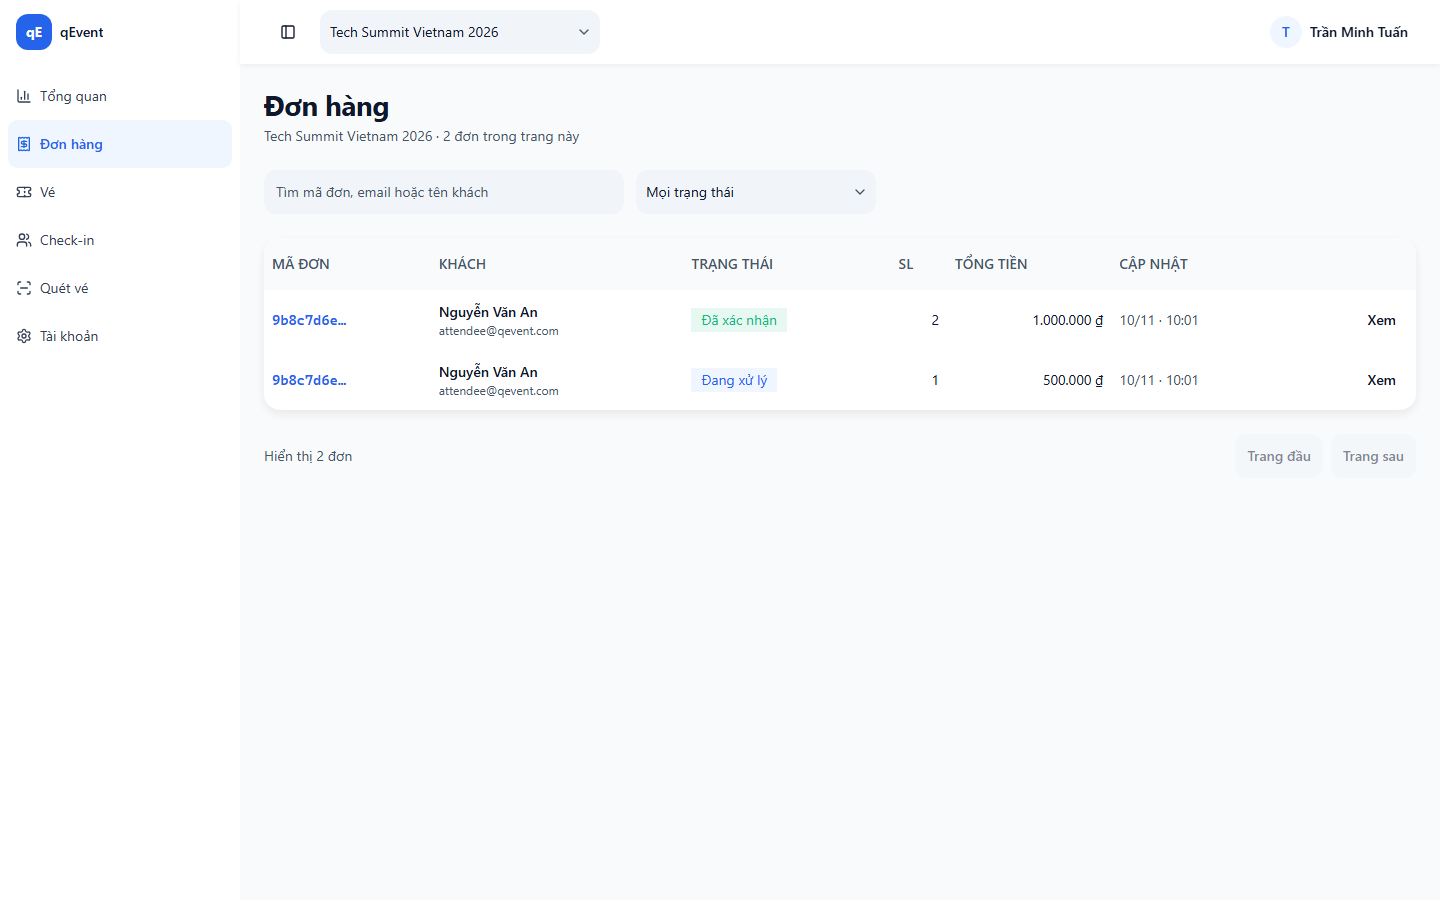
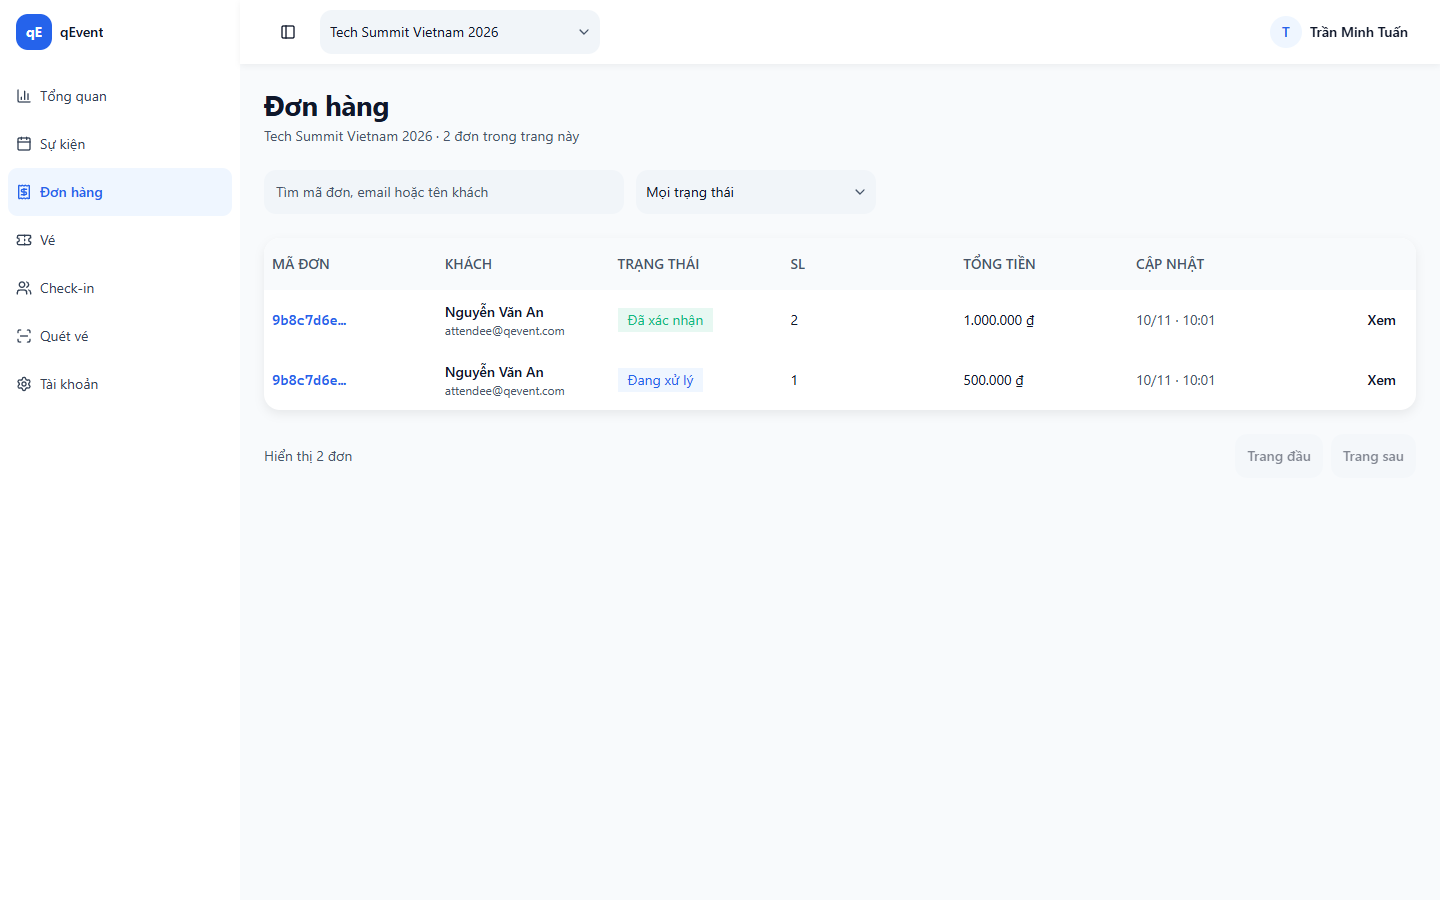
fix(orders): align order table columns with ticket list

diff --git a/web/src/features/orders/pages/OrdersPage.tsx b/web/src/features/orders/pages/OrdersPage.tsx
@@ -40,7 +40,22 @@ import { toast } from "sonner";
 import { type OrdersFilter, useOrders } from "../api";
 import { ORDER_STATUSES } from "../types";
 
-const COLUMNS = ["Mã đơn", "Khách", "Trạng thái", "SL", "Tổng tiền", "Cập nhật", ""];
+type Column = { key: string; label: string; className?: string };
+
+const COLUMNS: Column[] = [
+  { key: "id", label: "Mã đơn", className: "w-[15%]" },
+  { key: "attendee", label: "Khách", className: "w-[15%]" },
+  { key: "status", label: "Trạng thái", className: "w-[15%]" },
+  { key: "quantity", label: "SL", className: "w-[15%]" },
+  { key: "total", label: "Tổng tiền", className: "w-[15%]" },
+  { key: "updated", label: "Cập nhật", className: "w-[15%]" },
+  { key: "action", label: "", className: "w-[10%] text-right" },
+];
+
+function headClass(column: Column) {
+  return ["text-label uppercase text-muted-foreground", column.className].filter(Boolean).join(" ");
+}
+
 const SKELETON_ROWS = [1, 2, 3, 4, 5, 6, 7, 8];
 
 async function copyId(id: string) {
@@ -253,11 +268,8 @@ export function OrdersPage() {
               <TableHeader>
                 <TableRow>
                   {COLUMNS.map((column) => (
-                    <TableHead
-                      key={column || "action"}
-                      className="text-label uppercase text-muted-foreground"
-                    >
-                      {column}
+                    <TableHead key={column.key} className={headClass(column)}>
+                      {column.label}
                     </TableHead>
                   ))}
                 </TableRow>
@@ -267,7 +279,7 @@ export function OrdersPage() {
                   ? SKELETON_ROWS.map((row) => (
                       <TableRow key={`skeleton-${row}`}>
                         {COLUMNS.map((column) => (
-                          <TableCell key={column || "action"}>
+                          <TableCell key={column.key}>
                             <Skeleton className="h-4 w-full" />
                           </TableCell>
                         ))}
@@ -324,10 +336,8 @@ export function OrdersPage() {
                             {statusLabel(order.status)}
                           </Badge>
                         </TableCell>
-                        <TableCell className="text-right">{formatNumber(order.quantity)}</TableCell>
-                        <TableCell className="text-right">
-                          {formatMoney(order.totalAmount)}
-                        </TableCell>
+                        <TableCell>{formatNumber(order.quantity)}</TableCell>
+                        <TableCell>{formatMoney(order.totalAmount)}</TableCell>
                         <TableCell className="text-muted-foreground">
                           {formatDateShort(order.updatedAt)}
                         </TableCell>
